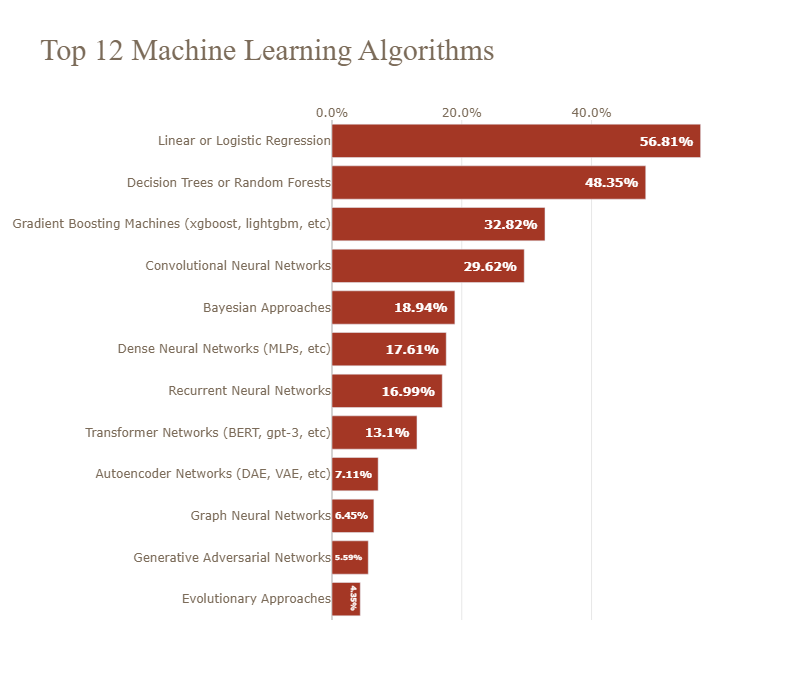
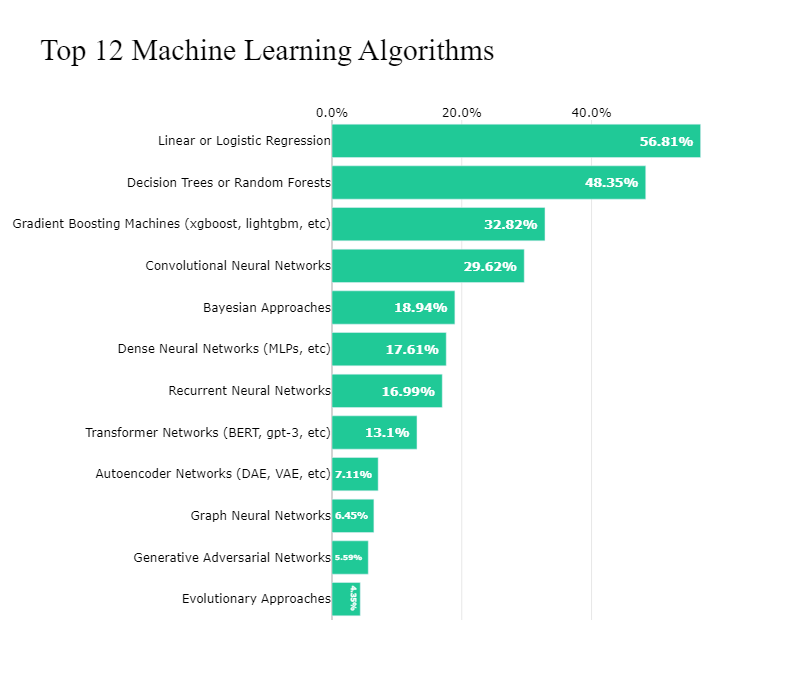
changed color theme added new info

Changed region(s): [[0.0312, 0.15, 0.875, 0.9], [0.0625, 0.06, 0.625, 0.09]]

diff --git a/docs-page.html b/docs-page.html
@@ -104,8 +104,27 @@
 
 					
 						
-						<h5>Github Code Example:</h5>
-						<p>You can <a class="theme-link" href="https://gist.github.com/"  target="_blank">embed your code snippets using Github gists</a></p>
+						<h5>Types of Machine Learning models:</h5>
+						<div class="table-responsive my-4">
+							<table class="table table-bordered">
+								<tbody>
+								    <tr>
+									    <th class="theme-bg-light"><a class="theme-link" href="#item-1-1">Supervised</a></th>
+									    <td>When the training data is labeled. </td>
+									</tr>
+									<tr>
+									      <th class="theme-bg-light"><a class="theme-link" href="#item-1-2">Unsupervised</a></th>
+									      <td>When the training data is not labeled </td>
+									</tr>
+									
+									<tr>
+									    <th class="theme-bg-light"><a class="theme-link" href="#item-1-3">Reinforcement Learning</a></th>
+									    <td> Learn by interacting with the environment.</td>
+									</tr>
+					
+								</tbody>
+							</table>
+						</div><!--//table-responsive-->
 						<div class="docs-code-block">
 							<!-- ** Embed github code starts ** -->
 							<script src="https://gist.github.com/xriley/fce6cf71edfd2dadc7919eb9c98f3f17.js"></script>
